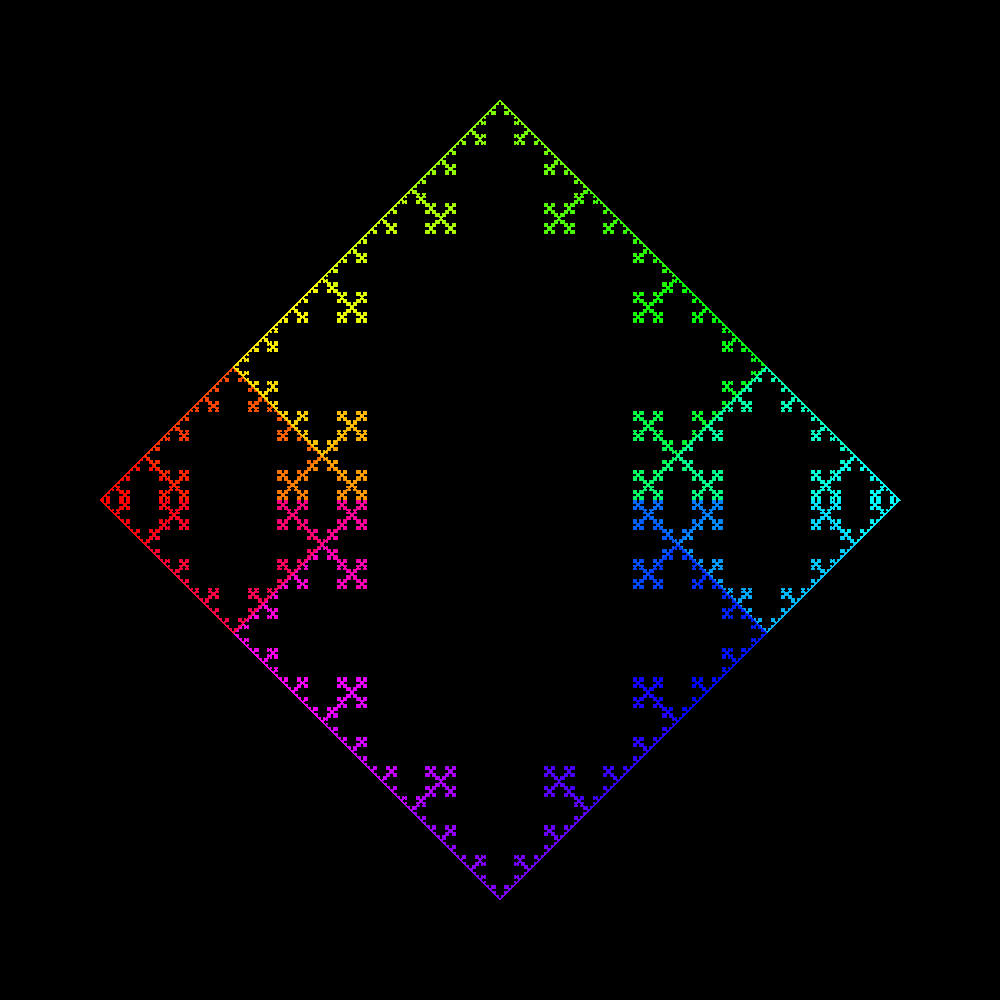
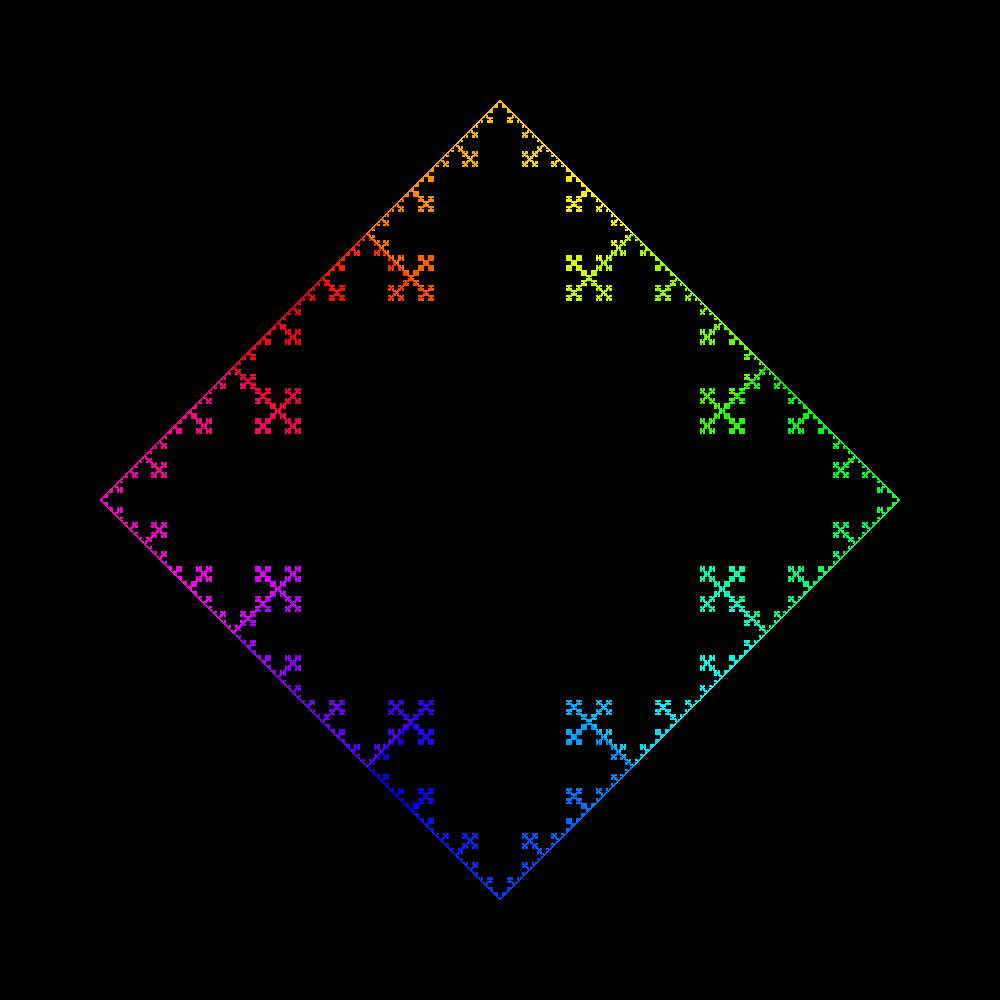
Putting the square back in square koch curve

Changed region(s): [[0.093, 0.093, 0.899, 0.899], [0.341, 0.403, 0.372, 0.434]]

diff --git a/fractals.py b/fractals.py
@@ -244,13 +244,13 @@ koch = LSystemFractal(
 
 koch_square = LSystemFractal(
     "Square Koch Curve",
-    "0F--F",
-    lambda d: 3 ** d,
+    "0F-F-F-F",
+    lambda d: 2 * 3 ** d,
     {"F": "F+F-F-F+F"},
     lambda t, d: {"F": lambda: draw(t.forward(1)),
                   "-": lambda: nodraw(t.turn_degrees(-90)),
                   "+": lambda: nodraw(t.turn_degrees(+90)),
-                  "0": lambda: nodraw(t.jump(0, 0.5))},
+                  "0": lambda: nodraw(t.jump(0.25, 0.75))},
     7)
 
 # TODO: ParametrisedLSystemFractal
